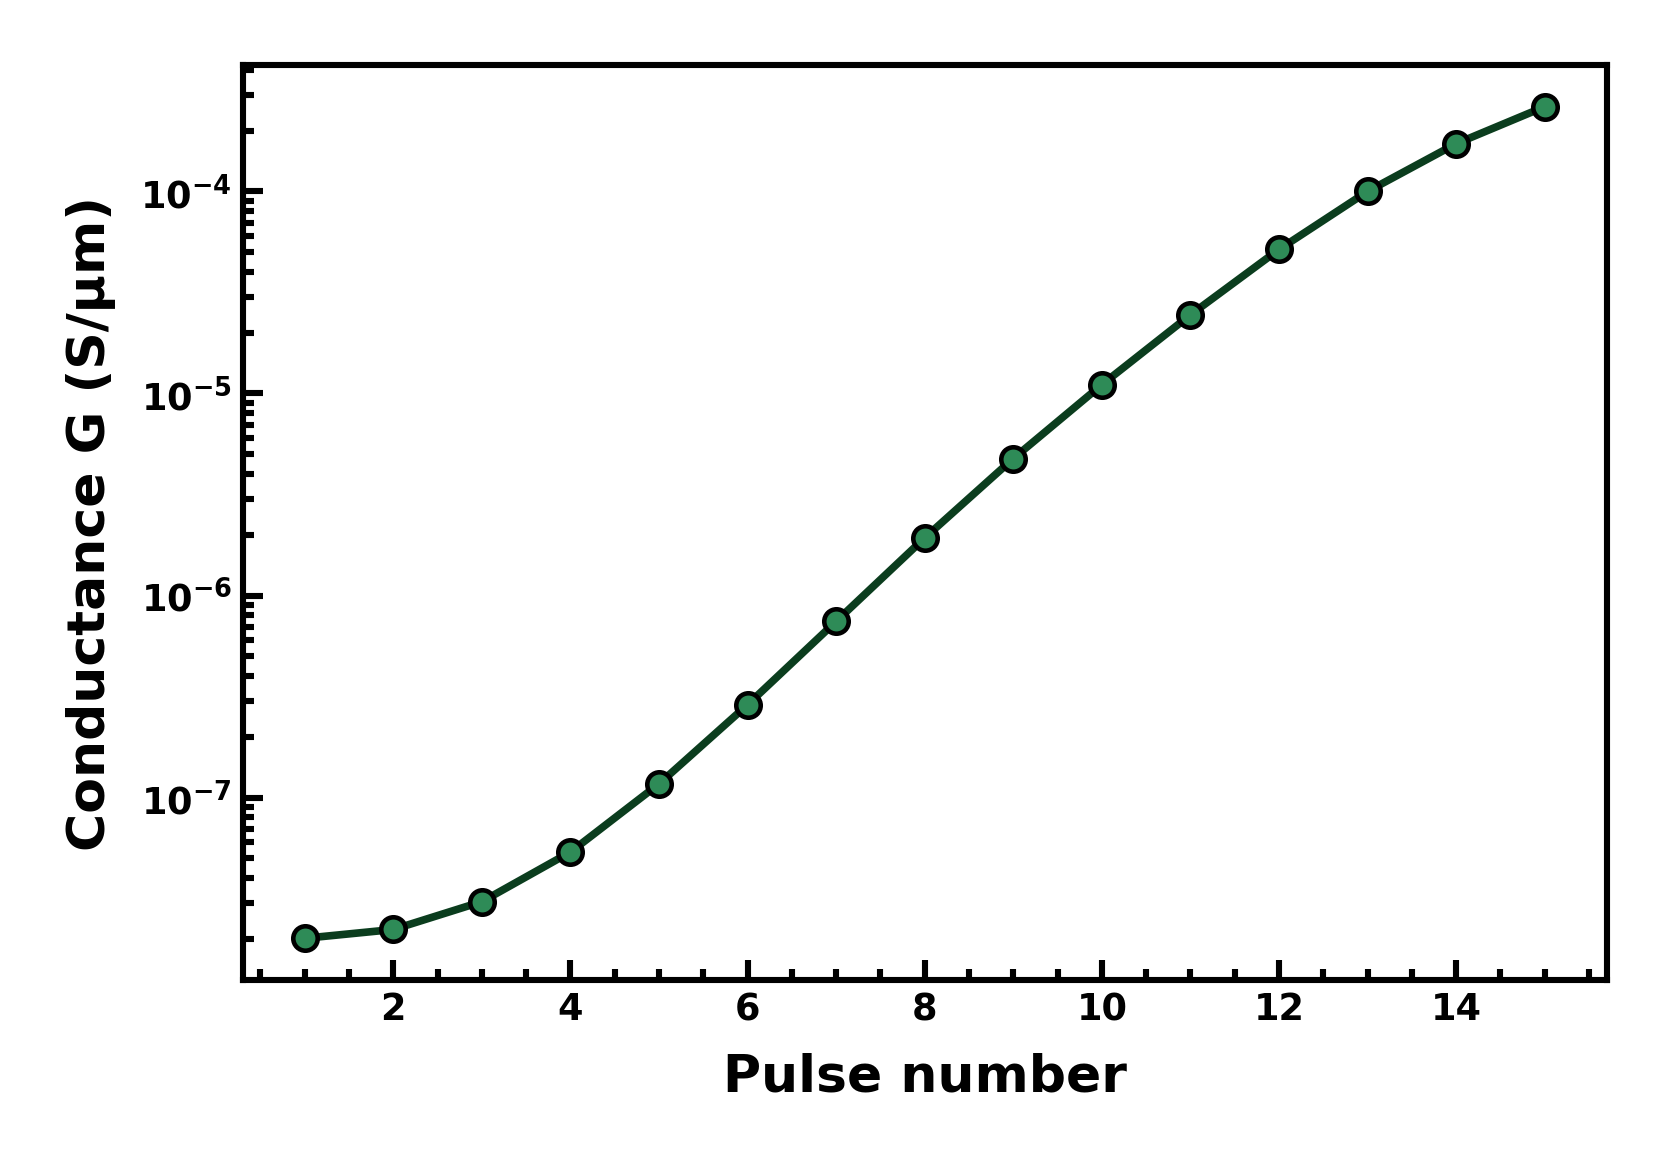
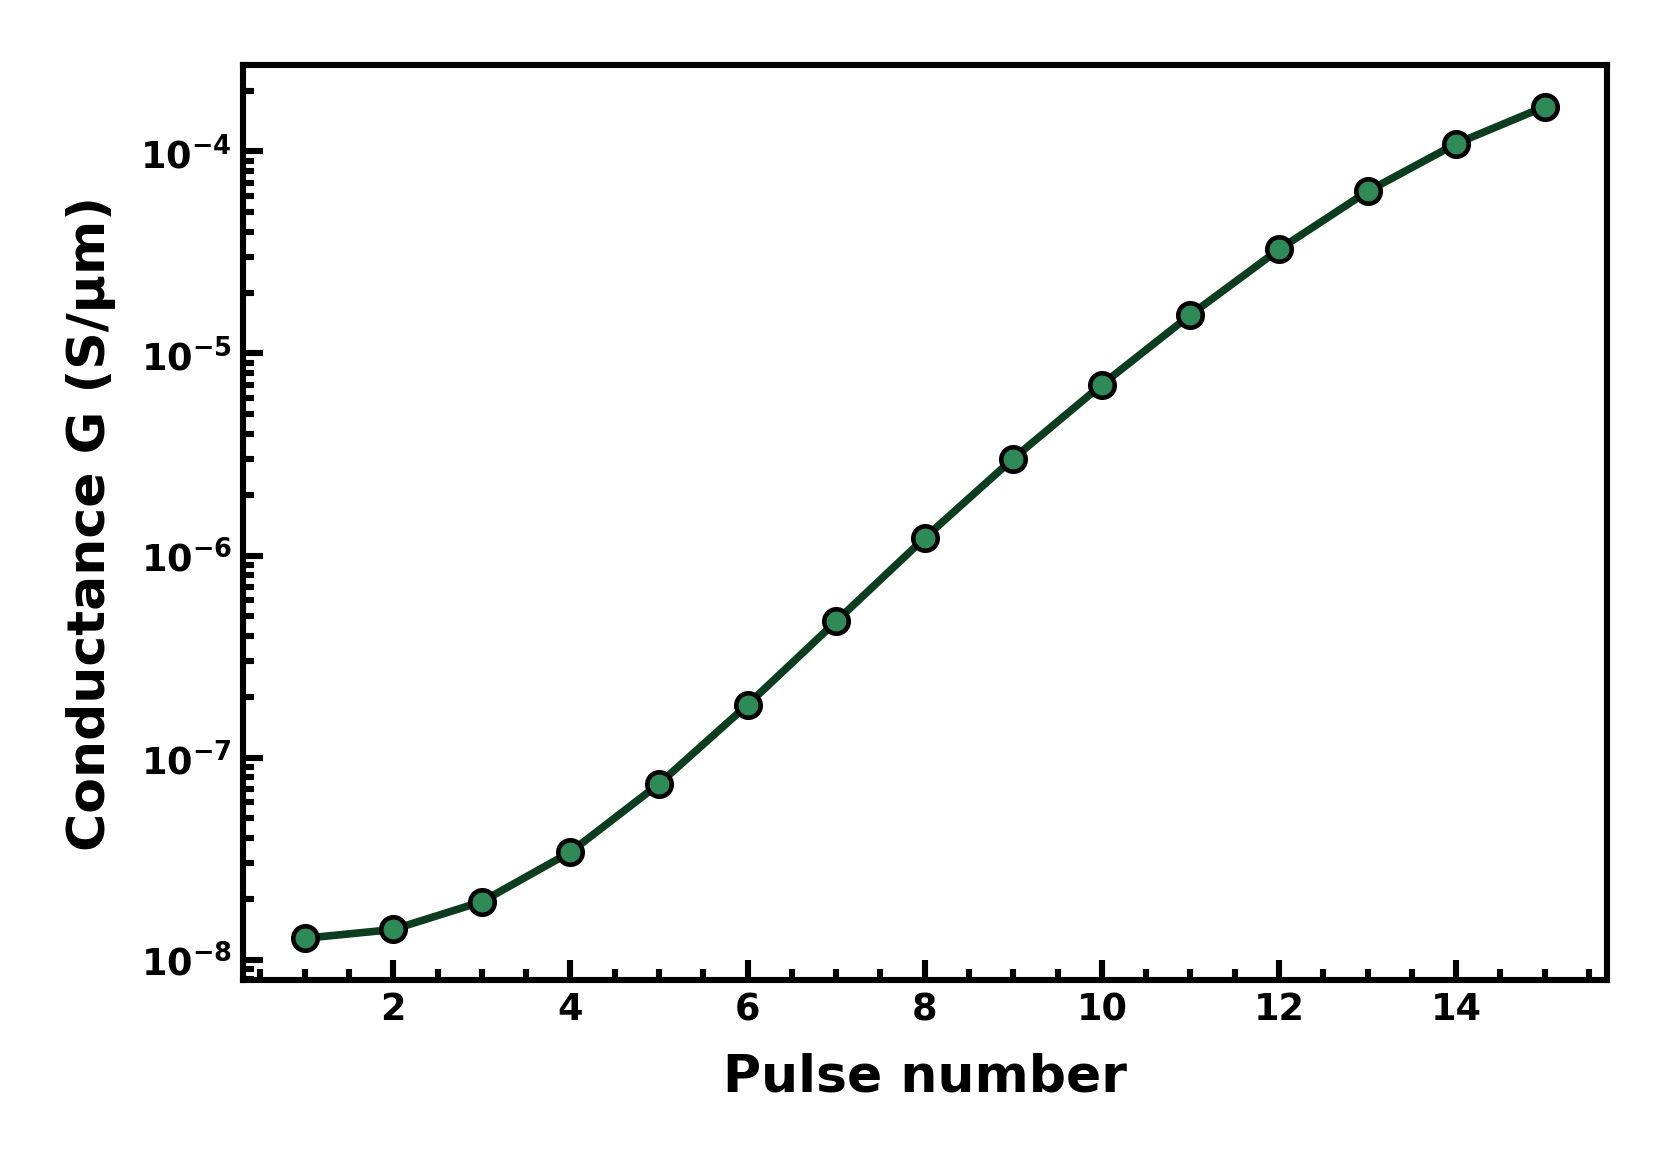
fix: the device figures in the paper package were pre-Phase-1 and pre-RR-0
make_device_figures.py reads the canonical repo-level export, so the script was
already right -- the PNGs and CSVs had just never been rebuilt after Phase 1.
dev1_LTP_ladder.csv held p1 = 2.0146e-08 / p15 = 2.6244e-04 S/um against the
canonical 1.2769e-08 / 1.6634e-04. Ratio 1.5778: the Areafactor factor again,
one directory over from the bundle Phase 6 already removed.

Rebuilding also pulled RR-0 through for the first time. dev5_memory_window went
from the superseded 200-point sweep to the canonical 41-point retained I-V
(iv_fe07b, -1.0..+1.0 V at 50 mV): erased 4.504e-3 and programmed 24.37 uA/um
at V_G = 0, MW = 0.39 V, ambipolar minima at -0.25 V (erased) and -0.55 V
(programmed) now visible. The published memory-window figure was pre-RR-0.

dev1, dev2, dev4, dev5 all moved. dev6 moved only in float rounding, as it must
-- it is normalized by g_max.

diff --git a/PHASE_6_RESULTS.md b/PHASE_6_RESULTS.md
@@ -275,6 +275,21 @@ visual justification for the "read after settling" rule rather than a counterexa
 than leave one document asserting two values for the same measurement, it is annotated
 in place as pre-RR-4 and pessimistic. Nothing under `eeg detection/` was touched or re-run.
 
+**The device figures in the paper package were pre-Phase-1 and pre-RR-0.**
+`make_device_figures.py` reads the canonical repo-level export, so the *script* was right —
+the PNGs and CSVs had simply never been rebuilt. `dev1_LTP_ladder.csv` held
+p1 = 2.0146e-08, p15 = 2.6244e-04 S/µm against the canonical 1.2769e-08 / 1.6634e-04:
+ratio 1.5778, the Areafactor factor again, one directory over from the bundle in §6.1.
+
+Rebuilding also pulled RR-0 through for the first time. `dev5_memory_window` went from the
+superseded 200-point sweep to the canonical 41-point retained I–V (`iv_fe07b`, −1.0…+1.0 V
+at 50 mV): erased 4.504e-3 and programmed 24.37 µA/µm at V_G = 0, MW = 0.39 V, with the
+ambipolar minima at V_G ≈ −0.25 V (erased) and −0.55 V (programmed) now visible. The
+published memory-window figure had been the pre-RR-0 one.
+
+Affected and now regenerated: `dev1`, `dev2`, `dev4`, `dev5`. `dev6` (the differential
+weight map) moved only in float rounding, as it must — it is normalized by `g_max`.
+
 **The `cal_n16` memory-window discrepancy is resolved, and it was not a fabrication.**
 `metrics.py` reported MW = 1.218 V where the calibration docs and the publication figure
 said 1.30 V. Both are correct constant-current extractions on the same data, one decade
